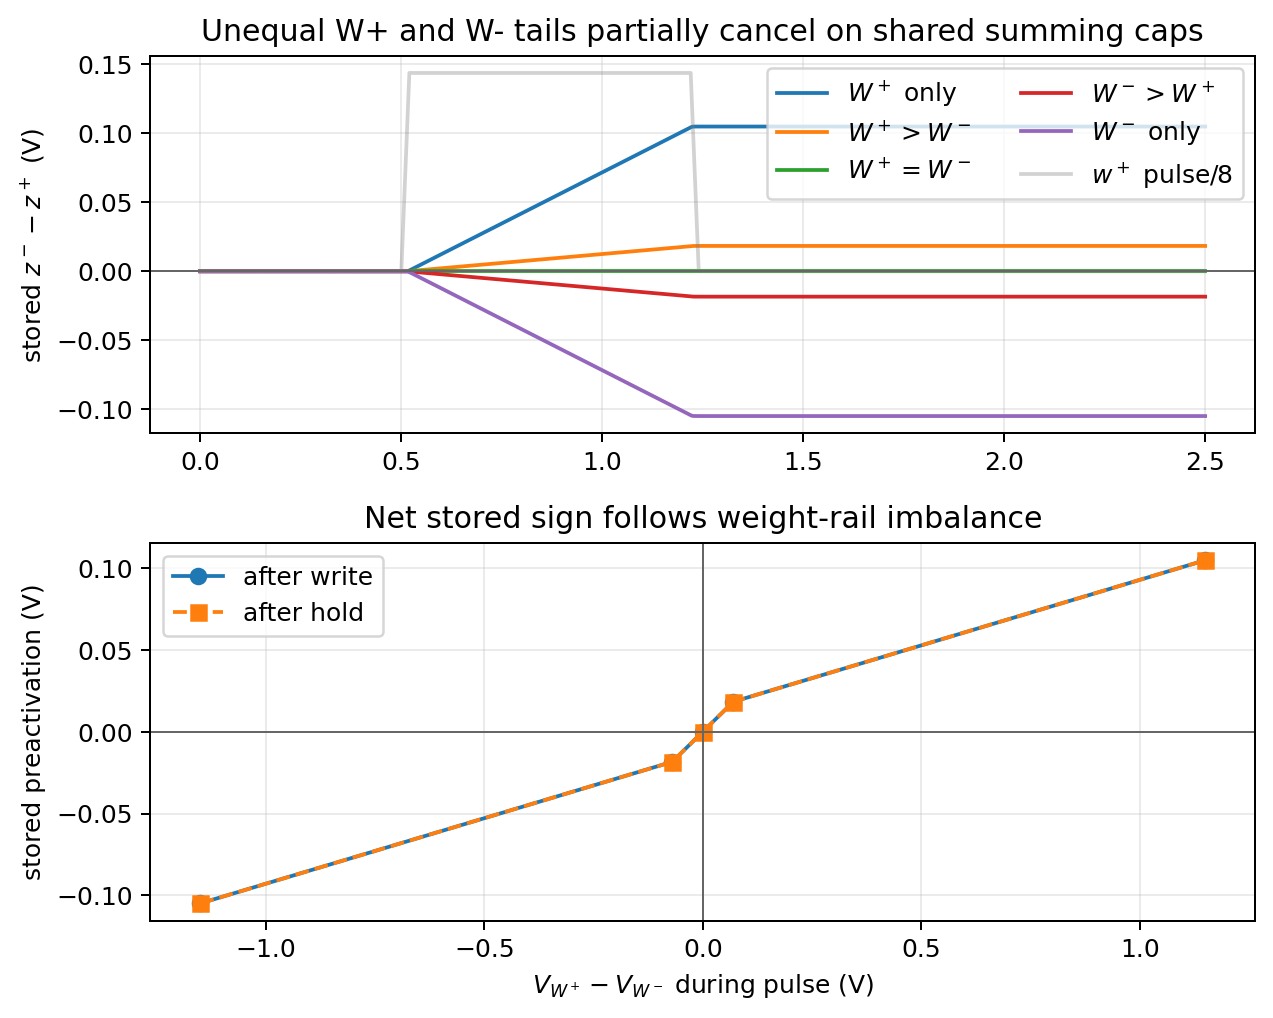
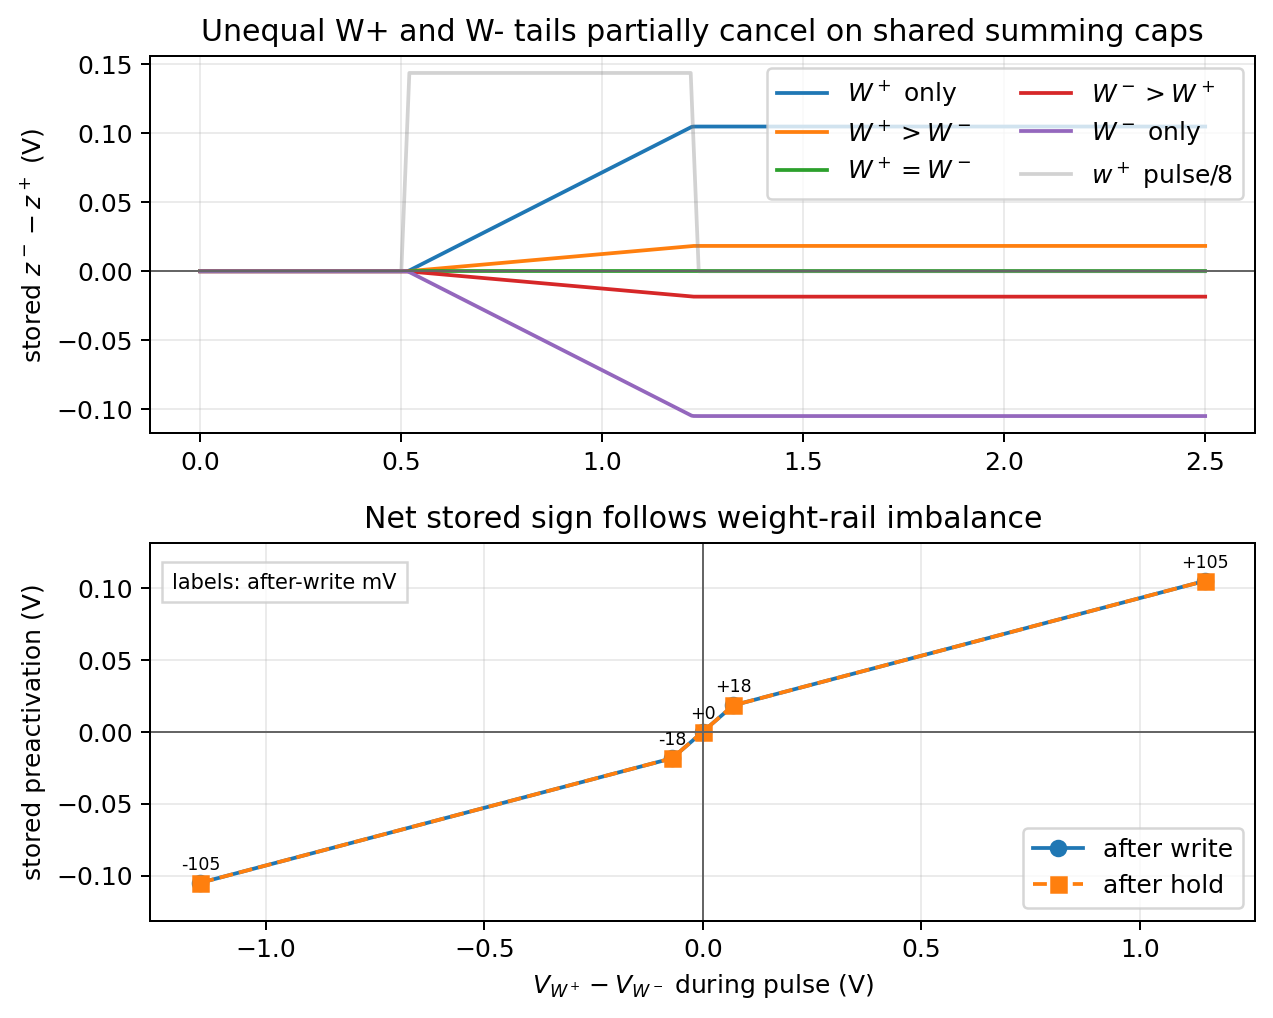
Annotate weighted synapse cancellation

diff --git a/spice/run_mos_cell_characterization.py b/spice/run_mos_cell_characterization.py
@@ -511,6 +511,18 @@ quit
     weighted_axes[1].plot(imbalance[order], weighted_hold[order], "s--", label="after hold")
     weighted_axes[1].axhline(0, color="0.4", linewidth=0.8)
     weighted_axes[1].axvline(0, color="0.4", linewidth=0.8)
+    weighted_abs_max = max(0.01, float(np.max(np.abs(np.concatenate([weighted_final, weighted_hold])))))
+    weighted_axes[1].set_ylim(-1.25 * weighted_abs_max, 1.25 * weighted_abs_max)
+    for x, value in zip(imbalance[order], weighted_final[order]):
+        weighted_axes[1].text(x, value + 0.06 * weighted_abs_max, f"{1e3 * value:+.0f}", ha="center", va="bottom", fontsize="x-small")
+    weighted_axes[1].text(
+        0.02,
+        0.88,
+        "labels: after-write mV",
+        transform=weighted_axes[1].transAxes,
+        fontsize="small",
+        bbox={"facecolor": "white", "alpha": 0.8, "edgecolor": "0.8"},
+    )
     weighted_axes[1].set_xlabel("$V_{W^+} - V_{W^-}$ during pulse (V)")
     weighted_axes[1].set_ylabel("stored preactivation (V)")
     weighted_axes[1].set_title("Net stored sign follows weight-rail imbalance")

diff --git a/engineering_log.md b/engineering_log.md
@@ -2,6 +2,13 @@
 
 ## 2026-05-25
 
+- Clarified the weighted signed-synapse cancellation plot.  The underlying
+  ngspice assertions already checked that shared \(z^+/z^-\) summing
+  capacitors move monotonically as \(W^-\) dominates \(W^+\), cancel near zero
+  for balanced rails, and hold after the pulse.  The regenerated
+  `mos_synapse_weighted_ngspice` plot now labels the after-write preactivation
+  values directly: about \(+105,+18,0,-18,-105\) mV across the five
+  imbalance cases.
 - Tightened the writer-retention plot after the circuit assertions were doing
   more work than the figure.  The MOS writer/readback deck still uses the same
   physical \(W^+\)/\(W^-\) capacitors as continuous synapse tail gates after
